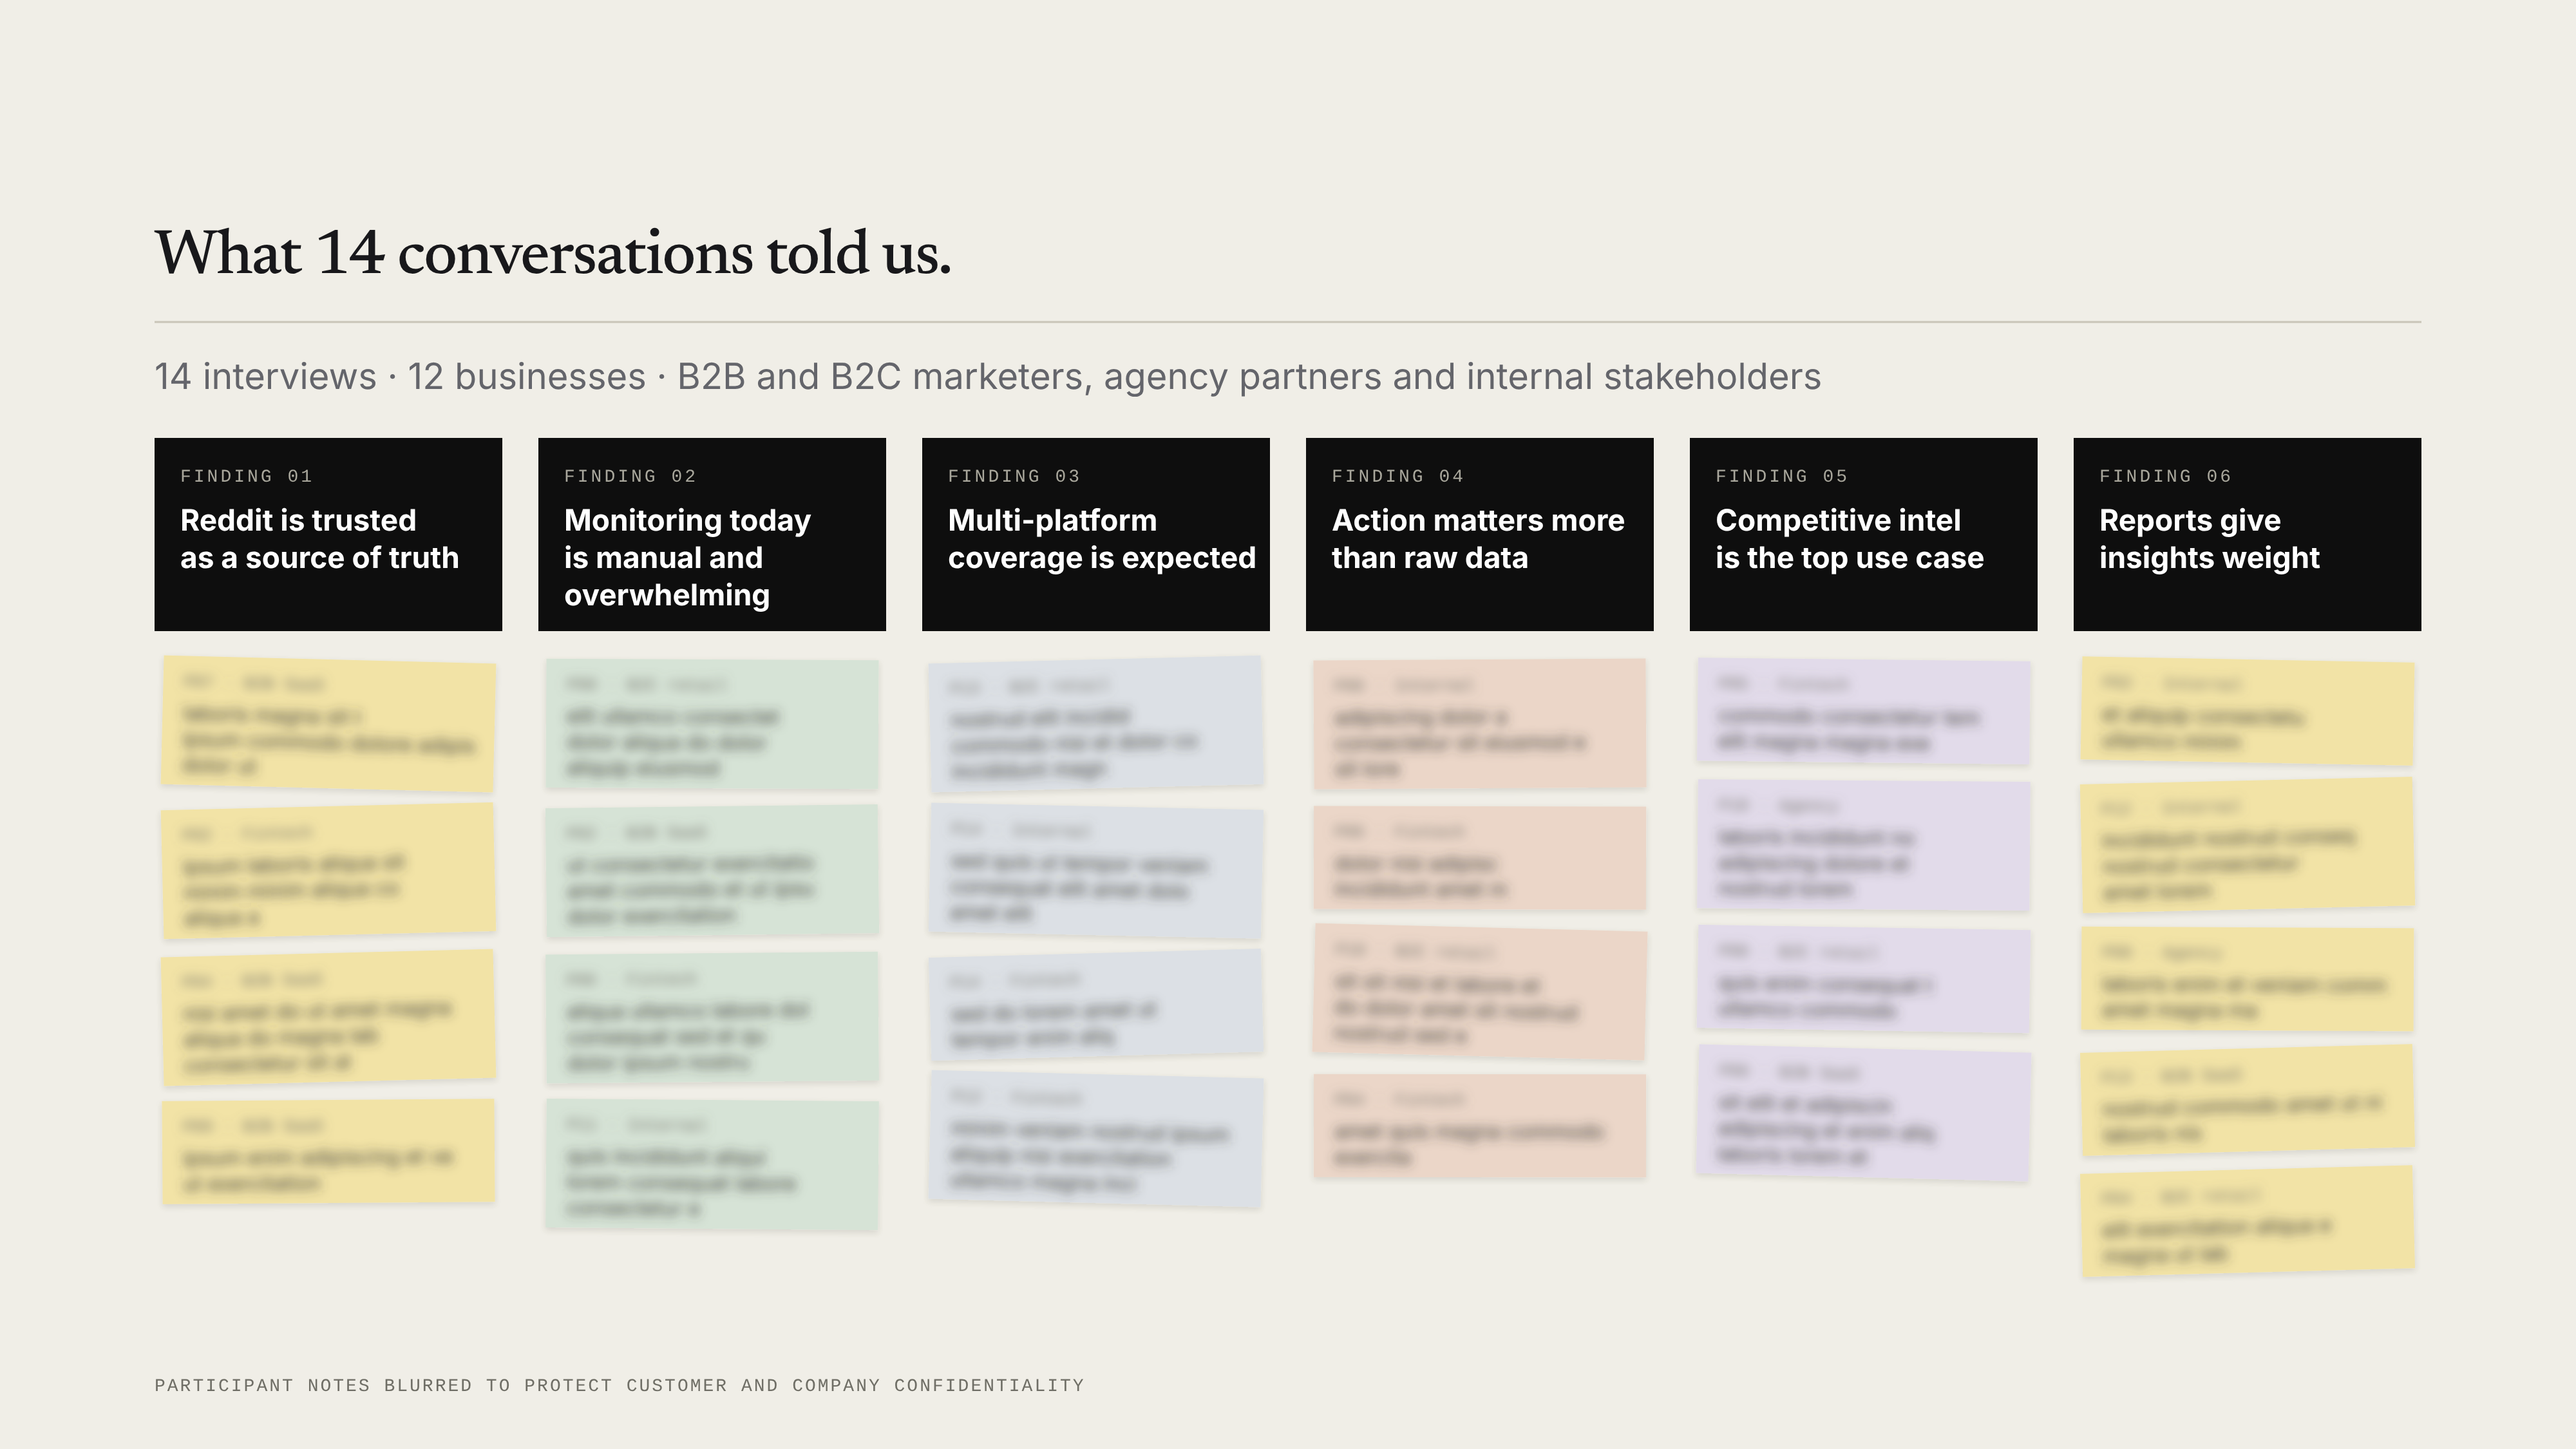
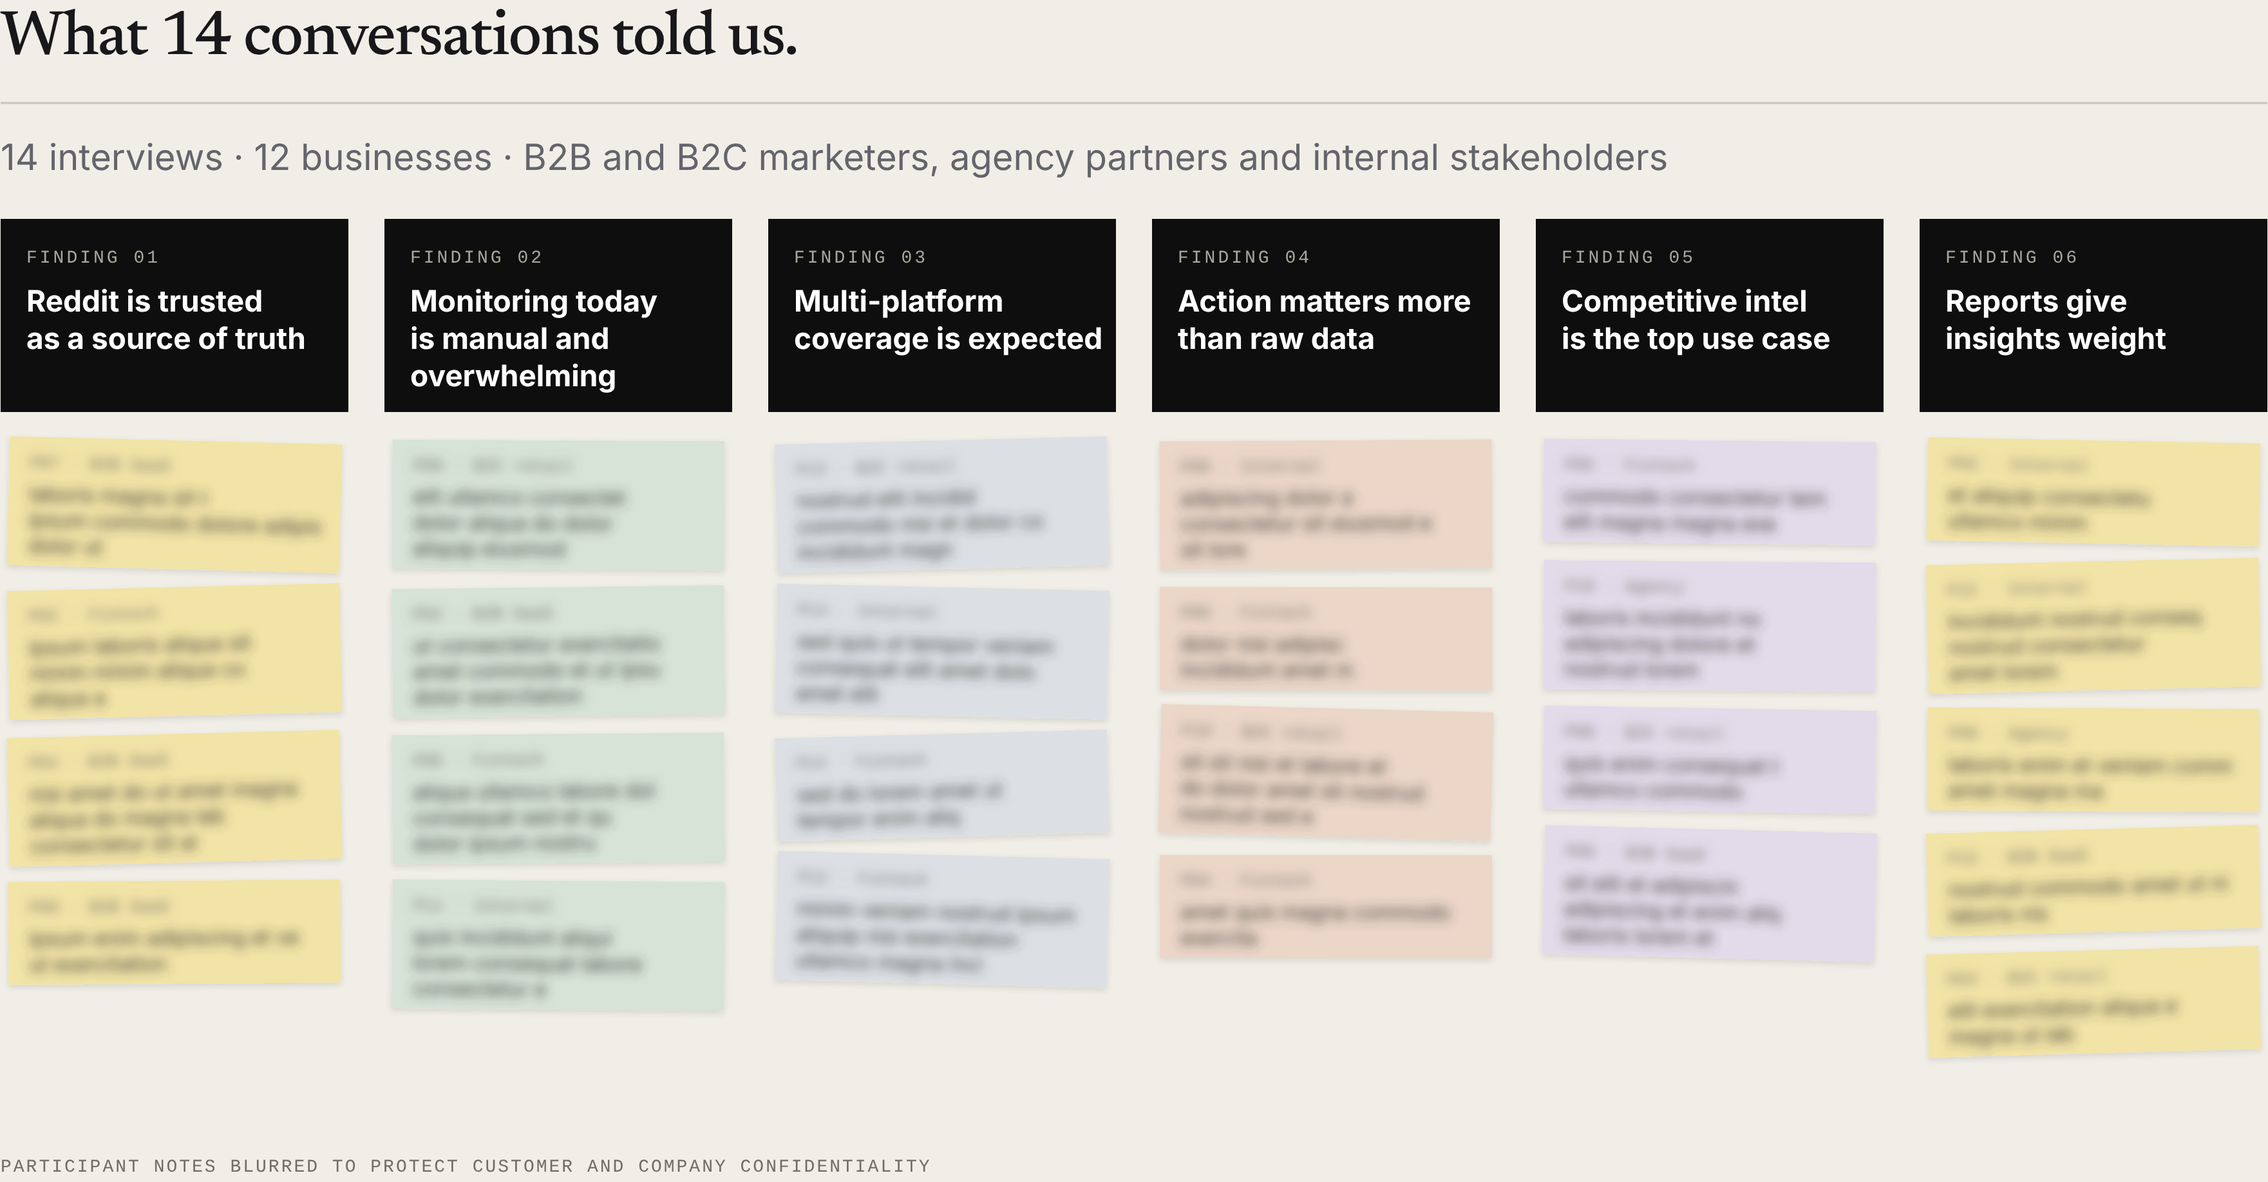
Fit interview synthesis board to the text column
Trims the board's built-in margins so its content lines up with the
column edges, like the survey chart above, and returns it to the
column width with no outline.

Claude-Session: https://claude.ai/code/session_01Eu97RrNipWsKTkncNEyS6h

diff --git a/src/app/work/social-insights/page.tsx b/src/app/work/social-insights/page.tsx
@@ -464,7 +464,7 @@ export default function SocialInsightsCaseStudy() {
         </section>
 
         {/* Research — where marketers struggle */}
-        <section className="overflow-x-clip py-20 md:py-28">
+        <section className="py-20 md:py-28">
           <div className="mx-auto max-w-4xl px-6 md:px-10">
             <SectionHead
               eyebrow="Research"
@@ -554,9 +554,9 @@ export default function SocialInsightsCaseStudy() {
               <Image
                 src={researchSynthesisBoard}
                 alt="Affinity board of six research findings from 14 interviews across 12 businesses: Reddit is trusted as a source of truth; monitoring today is manual and overwhelming; multi-platform coverage is expected; action matters more than raw data; competitive intel is the top use case; reports give insights weight. Participant notes are blurred for confidentiality."
-                sizes="(max-width: 1280px) 100vw, 1280px"
+                sizes="(max-width: 896px) 100vw, 816px"
                 placeholder="blur"
-                className="mt-6 h-auto w-[min(80rem,100vw)] max-w-none ml-[calc(50%-min(40rem,50vw))]"
+                className="mt-6 h-auto w-full"
               />
             </figure>
           </div>
